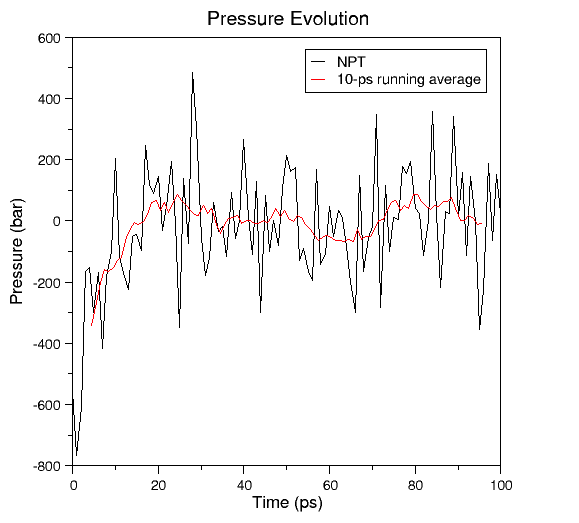
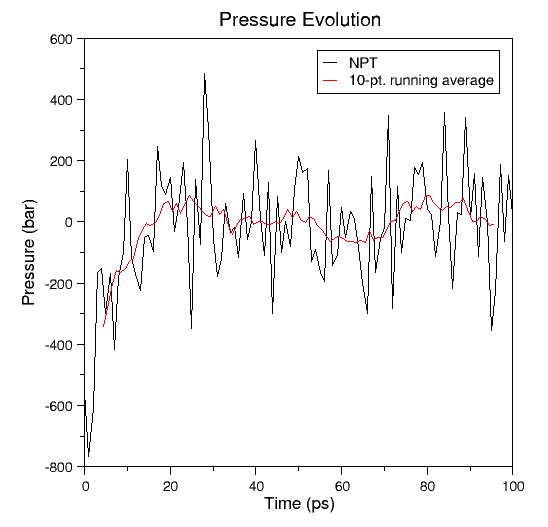
Adding session3 images

Changed region(s): [[0.0, 0.0, 0.9617, 0.979], [0.9307, 0.8872, 0.9617, 0.9484], [0.3723, 0.153, 0.4033, 0.1836]]

diff --git a/Notes/session3/part3.html b/Notes/session3/part3.html
@@ -32,7 +32,7 @@
         As in the previous session, you should check that your system has equilibrated by looking at the temperature and pressure evolution.
     </p>
     <div class="bbox">
-        <h3 id="temp_eq"></h3>
+        <h3 id="Calculate_the_temperature_evolution"></h3>
         <ol>
             <li>
                 Visualise the temperature evolution
@@ -61,10 +61,20 @@
                 </ol>
             </li>
         </ol>
+        <div class="flex-figure" style="margin-top:-8mm;">
+            <div class="figure" style="width: 70%">
+                <figure>
+                    <img src="img/eq_temp.png" width="100%">
+                    <figcaption>
+                        Example Xmgrace plot of the temperature evolution during equilibration.
+                    </figcaption>
+                </figure>
+            </div>
+        </div>
     </div>
 
     <div class="bbox">
-        <h3 id="pres_eq"></h3>
+        <h3 id="Calculate_the_pressure_evolution"></h3>
         <ol>
             <li>
                 Visualise the pressure evolution
@@ -83,12 +93,21 @@
                         create a 2-ps running average.</p>
                 </blockquote>
             </li>
-            <li>Visualise the result in xmgrace. Has the pressure of your system equilibrated? If you are unsure, visualise the density evolution
-                like <a href="../session2/part3.html#Calculate_the_density_evolution">before</a>.
+            <li>Visualise the result in xmgrace. Has the pressure of your system equilibrated?
             </li>
             <li>Save the xmgrace plot as a <code>.png</code> file.
             </li>
         </ol>
+         <div class="flex-figure" style="margin-top:-8mm;">
+            <div class="figure" style="width: 70%">
+                <figure>
+                    <img src="img/eq_pres.png" width="100%">
+                    <figcaption>
+                        Example Xmgrace plot of the pressure evolution during equilibration.
+                    </figcaption>
+                </figure>
+            </div>
+        </div>
     </div>
 </div>
 
@@ -96,7 +115,7 @@
     <h2 class='enum' id="toc_2">Analysis of the simulation data</h2>
     <p>In this section, you will:</p>
     <ul>
-        <li>Calculate the root&dash;mean&dash;square deviation (<abbr>RMSD</abbr>) of the system to determine from which
+        <li>Calculate the root-mean-square deviation (<abbr>RMSD</abbr>) of the system to determine from which
             point on the system is equilibrated
         </li>
         <li>Determine the radial distribution function (RDF) of the ions to analyse their hydration shell</li>
@@ -134,6 +153,16 @@
             <li>Save the xmgrace plot as a <code>.png</code> file.
             </li>
         </ol>
+        <div class="flex-figure" style="margin-top:-8mm;">
+            <div class="figure" style="width: 70%">
+                <figure>
+                    <img src="img/rmsd.png" width="100%">
+                    <figcaption>
+                        Example Xmgrace plot of the RMSD evolution for the entire system during a production run.
+                    </figcaption>
+                </figure>
+            </div>
+        </div>
     </div>
 
     <h3 class="enum" id="toc_2_2">Calculating the radial distribution function (<abbr>RDF</abbr>)</h3>
@@ -150,16 +179,14 @@
             </li>
             <li>
                 Use <a href="https://manual.gromacs.org/documentation/2019/onlinehelp/gmx-make_ndx.html"
-                               target="_blank"><code>make_ndx</code></a> to create an index file for
-                Na<sup>+</sup> ions and water OW atoms:
-                <p>GROMACS does not have Na<sup>+</sup> and water <code>OW</code> atoms in its default selections.
-                    Therefore, we have to first create a new index <code>.ndx</code> file that also contains these atom
-                    groups:</p>
-                <blockquote>
-                    <pre>$ gmx make_ndx &dash;f prod.gro &dash;o Na_OW.ndx</pre>
-                    <p>Select NA and OW atoms by adding two new groups to the index file:<br>
+                               target="_blank"><code>make_ndx</code></a> to create an index file for water OW atoms:
+                <p>GROMACS does not have water <code>OW</code> atoms in its default selections.
+                    Therefore, we have to first create a new index <code>.ndx</code> file that also contains this atom
+                    group.</p>
+                <pre style="margin-top:1mm">$ gmx make_ndx -f prod.gro -o OW.ndx</pre>
+                <blockquote style="margin-top:1mm">
+                    <p>Select OW atoms by adding the new group to the index file:<br>
                         Type each line and press <code>Enter</code>.</p>
-                    <pre>&gt; a NA</pre>
                     <pre>&gt; a OW</pre>
                     <p>Exit and save the index file by typing <code>q</code> and pressing <code>Enter</code>.
                     </p>
@@ -170,18 +197,18 @@
                            target="_blank"><code>gmx rdf</code></a> tool to calculate the <abbr>RDF</abbr>:
                 <blockquote>
                 <pre>
-$ gmx rdf &dash;f prod.xtc &dash;s prod.tpr &dash;n Na_OW.ndx &dash;o rdf_Na_OW.xvg &dash;seltype atom &dash;selrpos atom &dash;b &lt;analysis_start_time&gt; &dash;tu &lt;time_unit&gt; &dash;norm number_density &dash;rmax 1</pre>
-                    <p><code>&dash;f</code> specifies the trajectory file.</p>
-                    <p><code>&dash;s</code> specifies the input topology <code>.tpr</code> file.</p>
-                    <p><code>&dash;o</code> specifies the ouput file.</p>
-                    <p><code>&dash;seltype</code> specifies the selection type.</p>
-                    <p><code>&dash;selrpos</code> specifies the positions used in the analysis.</p>
-                    <p><code>&dash;b</code> specifies the start time for the analysis.</p>
-                    <p><code>&dash;tu</code> specifies the time unit.</p>
-                    <p><code>&dash;norm</code> specifies if the density should be normalised to 1.
+$ gmx rdf -f prod.xtc -s prod.tpr -n Na_OW.ndx -o rdf_Na_OW.xvg -seltype atom -selrpos atom -b &lt;analysis_start_time&gt; -tu &lt;time_unit&gt; -norm number_density -rmax 1</pre>
+                    <p><code>-f</code> specifies the trajectory file.</p>
+                    <p><code>-s</code> specifies the input topology <code>.tpr</code> file.</p>
+                    <p><code>-o</code> specifies the ouput file.</p>
+                    <p><code>-seltype</code> specifies the selection type.</p>
+                    <p><code>-selrpos</code> specifies the positions used in the analysis.</p>
+                    <p><code>-b</code> specifies the start time for the analysis.</p>
+                    <p><code>-tu</code> specifies the time unit.</p>
+                    <p><code>-norm</code> specifies if the density should be normalised to 1.
                         Here we select to keep the number density which will represent the number of atoms in the
                         hydration shell.</p>
-                    <p><code>&dash;rmax</code> specifies the maximum distance between two atoms in the analysis.</p>
+                    <p><code>-rmax</code> specifies the maximum distance between two atoms in the analysis.</p>
                     <p>Then, first select <code>OW</code> by typing the group number and hitting <code>Enter</code> and
                         then
                         add <code>Na</code> to the selection. Hit <code>Enter</code> again and exit with
@@ -192,6 +219,16 @@ $ gmx rdf &dash;f prod.xtc &dash;s prod.tpr &dash;n Na_OW.ndx &dash;o rdf_Na_OW.
                 Use xmgrace to visualise the result.
             </li>
         </ol>
+        <div class="flex-figure" style="margin-top:-8mm;">
+            <div class="figure" style="width: 70%">
+                <figure>
+                    <img src="img/rdf.png" width="100%">
+                    <figcaption>
+                        Example Xmgrace plot of the RDF evolution for water O<sup>2-</sup> to Na<sup>+</sup> during a production run.
+                    </figcaption>
+                </figure>
+            </div>
+        </div>
     </div>
     <div class="box">
         <h2 class="enum" id="toc_12">Visualising the results</h2>
@@ -206,7 +243,7 @@ $ gmx rdf &dash;f prod.xtc &dash;s prod.tpr &dash;n Na_OW.ndx &dash;o rdf_Na_OW.
                 <li>Load the trajectory file into the molecule.
                     <blockquote>
                         <p>
-                            Right&dash;click on the molecule and select <code>Load Data into Molecule</code>.
+                            Right-click on the molecule and select <code>Load Data into Molecule</code>.
                             Then, select the <code>prod.xtc</code> trajectory file.
                         </p>
                         <p class="note">The loading of all the frames might take some time. You can speed up the

diff --git a/Notes/scripts/feedback.js b/Notes/scripts/feedback.js
@@ -27,11 +27,12 @@ function addFeedback(link, imgFile) {
     newP3 = document.createElement("p");
     newA.href = link;
     newA.alt = "link to feedback form";
+    newA.target="_blank";
     newA.textContent = "feedback form";
     newImg.alt = "feedback QR code";
     newImg.src = imgFile;
     newImg.width = "200";
-    newP3.textContent = "Thank you!"
+    newP3.textContent = "Thank you!";
     newP3.style = "text-align: center;font-weight: bold;font-size: 2em;color: #041E42;";
 
 

diff --git a/Notes/session3/part1.html b/Notes/session3/part1.html
@@ -84,7 +84,7 @@
                     </blockquote>
 
                 </ul>
-                    <div class="flex-container" style="margin-top:-6mm;">
+                <div class="flex-container" style="margin-top:-6mm;">
                     <div class="flex-item">
                         <figure>
                             <img alt="" class="fit-picture" decoding="auto"
